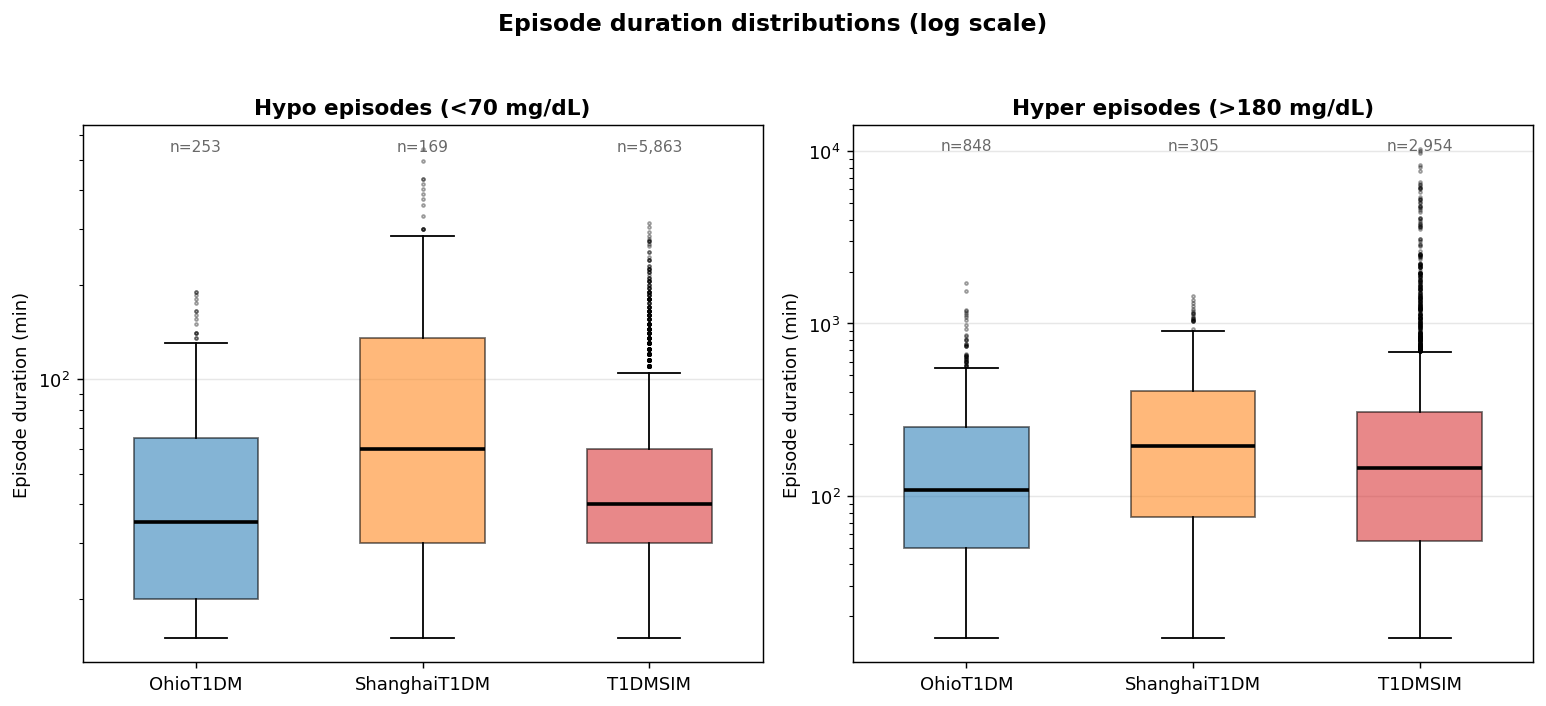
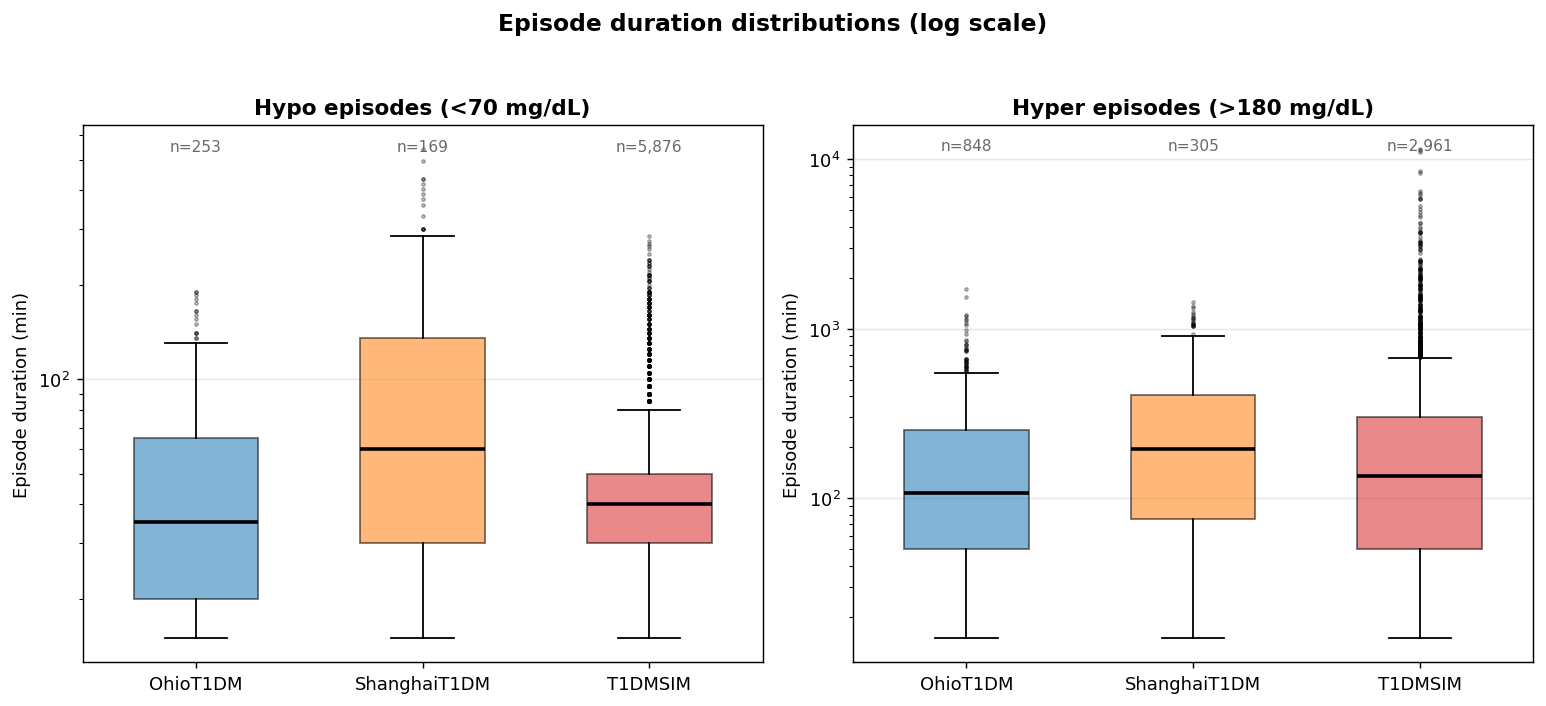
Refresh embedded comparison figures and the aggregate-stats table for the current simulator output now that the awake-hypo sawtooth fix has shifted mean BG, TIR, and TBR.

diff --git a/README.md b/README.md
@@ -236,10 +236,10 @@ The simulator matches both real cohorts on mean BG and GMI within a fraction of 
 | Metric          | OhioT1DM | ShanghaiT1DM | T1DMSIM |
 |-----------------|---------:|-------------:|--------:|
 | Patients / records | 6     | 16           | 30 seeds |
-| Mean BG (mg/dL) | 162.3    | 163.6        | 163.2   |
-| GMI             | 7.2      | 7.2          | 7.2     |
-| CV (%)          | 36.3     | 38.6         | 48.5    |
-| Δ5min std       | 5.81     | (15-min: 10.65) | 5.83 |
+| Mean BG (mg/dL) | 162.3    | 163.6        | 160.0   |
+| GMI             | 7.2      | 7.2          | 7.1     |
+| CV (%)          | 36.3     | 38.6         | 47.6    |
+| Δ5min std       | 5.81     | (15-min: 10.65) | 5.82 |
 
 #### Clinical glucose ranges
 ![Clinical ranges](assets/clinical_ranges.png)
